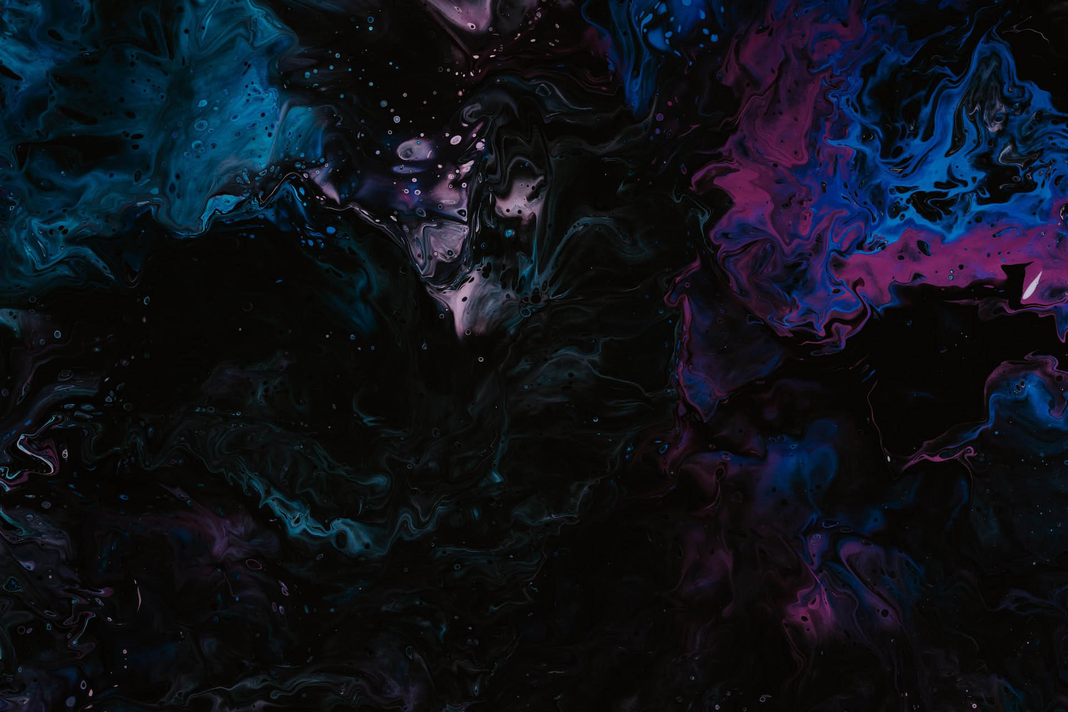
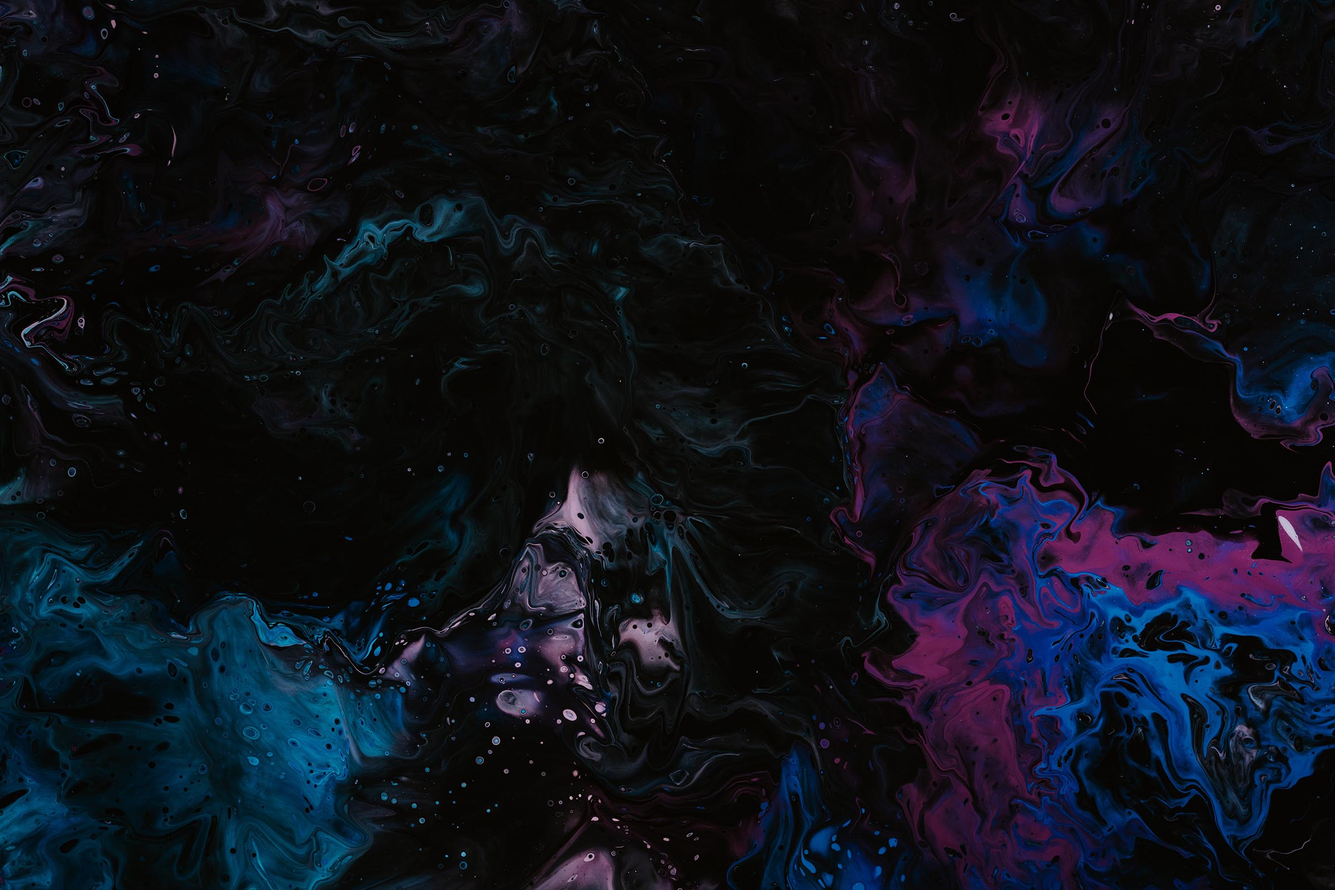
early design changes

diff --git a/django/core/static/css/custom.css b/django/core/static/css/custom.css
@@ -119,6 +119,8 @@ main a {
     width: 100%;
     padding-top: 10vh;
     background-image: url('../images/welcome/banner-bg.jpg');
+    /* Photo by <a href="https://unsplash.com/@pawel_czerwinski?utm_source=unsplash&utm_medium=referral&utm_content=creditCopyText">Pawel Czerwinski</a> on <a href="https://unsplash.com/s/photos/abstract?utm_source=unsplash&utm_medium=referral&utm_content=creditCopyText">Unsplash</a>
+   */
     background-repeat: no-repeat;
     background-size: cover;
     background-position: center;
@@ -134,7 +136,7 @@ main a {
 }
 
 #welcome-banner-tagline-logo {
-    width: 20em;
+    width: 18em;
     display: block;
     margin-bottom: 2em;
 }

diff --git a/django/core/static/css/custom_small.css b/django/core/static/css/custom_small.css
@@ -25,7 +25,7 @@
     /* ---------- Welcome ---------- */
 
     #welcome-banner {
-        height: calc(100vh - 3.39em);
+        min-height: calc(100vh - 3.39em);
     }
 
     #welcome-banner-tagline {
